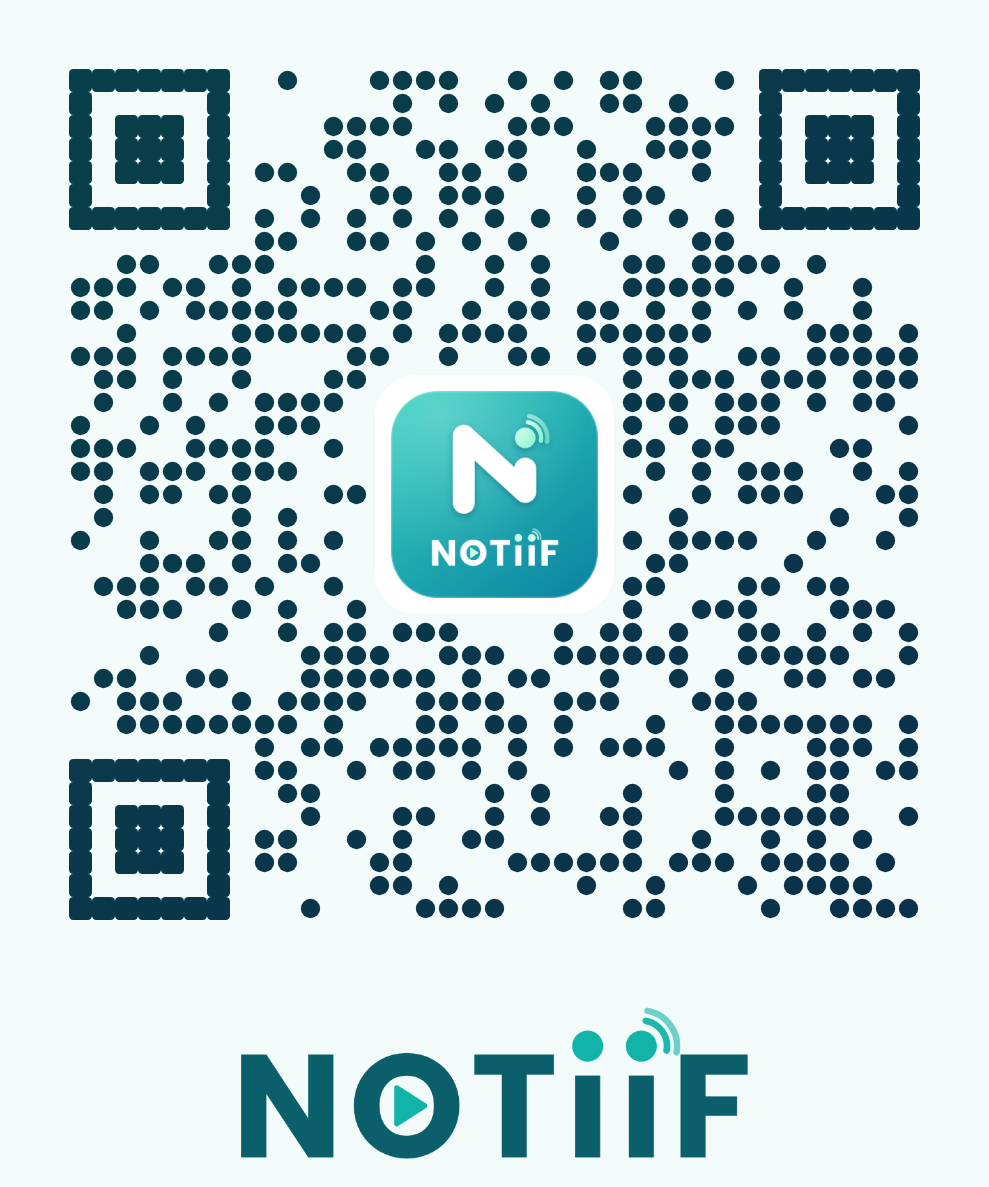
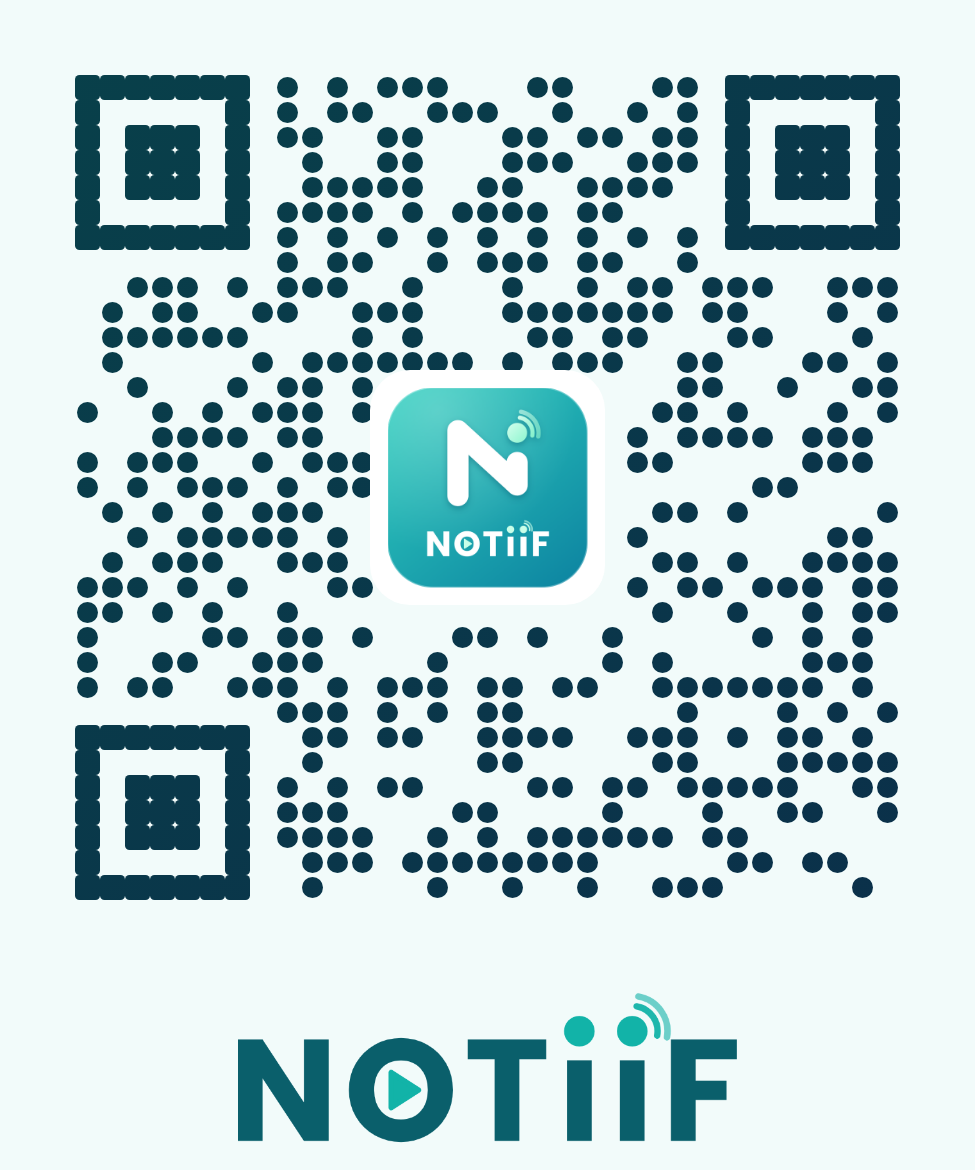
Nouvelle adresse notiif.vercel.app (site, app Android, QR codes)
Claude-Session: https://claude.ai/code/session_01HwPAuCduVsBrXG3mJiFBf5

Changed region(s): [[0.0615, 0.0308, 0.9538, 0.8]]

diff --git a/nidami/index.html b/nidami/index.html
@@ -10,7 +10,7 @@
 <meta property="og:site_name" content="NOTIIF" />
 <meta property="og:title" content="NOTIIF — Votre cercle. Vos moments." />
 <meta property="og:description" content="Le réseau privé de la famille et des amis." />
-<meta property="og:image" content="https://nidami-three.vercel.app/logo-512.png" />
+<meta property="og:image" content="https://notiif.vercel.app/logo-512.png" />
 <meta name="twitter:card" content="summary" />
 <link rel="apple-touch-icon" href="./apple-touch-icon.png" />
 <link rel="manifest" href="./manifest.webmanifest" />

diff --git a/android-cercle/app/src/main/java/app/cercle/MainActivity.kt b/android-cercle/app/src/main/java/app/cercle/MainActivity.kt
@@ -29,8 +29,8 @@ import android.webkit.WebViewClient
 
 class MainActivity : Activity() {
     companion object {
-        const val HOME = "https://nidami-three.vercel.app/"
-        const val HOST = "nidami-three.vercel.app"
+        const val HOME = "https://notiif.vercel.app/"
+        const val HOST = "notiif.vercel.app"
         const val RC_FILE = 1
         const val RC_PERM = 2
         const val RC_NOTIF = 3
